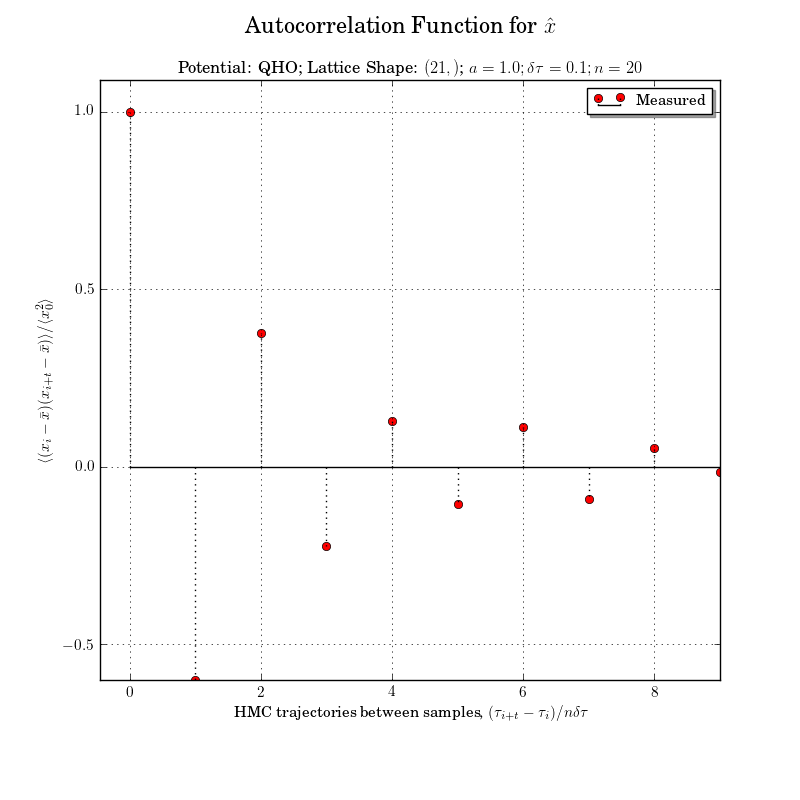
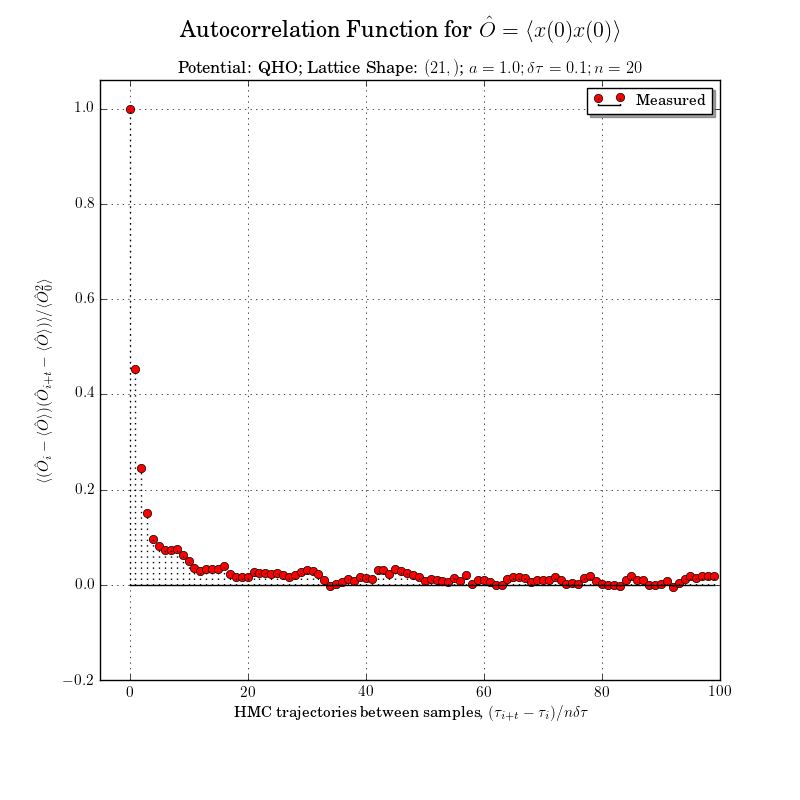
done autocorellations for arbitrary operators issue:#13

diff --git a/results/common/acorr1d_x2.py b/results/common/acorr1d_x2.py
@@ -2,20 +2,21 @@ import numpy as np
 import matplotlib.pyplot as plt
 from scipy import stats
 
-from correlations import acorr
+from correlations import acorr, corr
 from models import Basic_HMC as Model
 from utils import saveOrDisplay
 from data import store
 from plotter import Pretty_Plotter, PLOT_LOC
 
-def plot(ac_fn, subtitle, save, theory=None):
+def plot(ac_fn, subtitle, op_name, save, theory=None):
     """Plots the two-point correlation function
     
     Required Inputs
-        ac_fn :: np.array :: correlation function
-        subtitle :: string :: subtitle for the plot
-        save :: bool :: True saves the plot, False prints to the screen
-        theory :: none atm
+        ac_fn    :: np.array :: correlation function
+        subtitle :: str  :: subtitle for the plot
+        op_name  :: str  :: the name of the operator for the title
+        save     :: bool :: True saves the plot, False prints to the screen
+        theory   :: not used yet
     
     Optional Inputs
         all_lines :: bool :: if True, plots hamiltonian as well as all its components
@@ -30,13 +31,14 @@ def plot(ac_fn, subtitle, save, theory=None):
     ax =[]
     ax.append(fig.add_subplot(111))
     
-    fig.suptitle(r"Autocorrelation Function for $\hat{x}$",
+    fig.suptitle(r"Autocorrelation Function for {}".format(op_name),
         fontsize=pp.ttfont)
     
     ax[0].set_title(subtitle, fontsize=pp.ttfont-4)
     
     ax[0].set_xlabel(r'HMC trajectories between samples, $(\tau_{i+t} - \tau_{i}) / n\delta\tau$')
-    ax[0].set_ylabel(r'${\langle (x_i - \bar{x})(x_{i+t} - \bar{x}) \rangle}/{\langle x_0^2 \rangle}$')
+    ax[0].set_ylabel(r'$\mathcal{C}(t) = {\langle (\hat{O}_i - \langle\hat{O}\rangle)' \
+        + r'(\hat{O}_{i+t} - \langle\hat{O}\rangle) \rangle}/{\langle \hat{O}_0^2 \rangle}$')
     
     steps = np.linspace(0, ac_fn.size, ac_fn.size, False)    # get x values
     
@@ -88,6 +90,10 @@ def main(x0, pot, file_name, n_samples, n_burn_in, c_len=20, step_size = .5, n_s
         save :: bool :: True saves the plot, False prints to the screen
     """
     
+    separations = range(c_len)
+    opFn = lambda samples: corr.twoPoint(samples, separation=0)
+    op_name = r'$\hat{O} = \langle x(0)x(0) \rangle$'
+    
     rng = np.random.RandomState()
     model = Model(x0, pot=pot, spacing=spacing, rng=rng, step_size = step_size,
       n_steps = n_steps)
@@ -97,19 +103,15 @@ def main(x0, pot, file_name, n_samples, n_burn_in, c_len=20, step_size = .5, n_s
         pot.name, x0.shape, spacing, step_size, n_steps)
     length = model.x0.size
     
-    
     print 'Running Model: {}'.format(file_name)
     c.runModel(n_samples=n_samples, n_burn_in=n_burn_in, verbose = True)
-    
-    separations = range(c_len)
-    fn = lambda x: x # operator \hat{x}
-    
-    ac_fn = c.getAcorr(separations, fn)
+    ac_fn = c.getAcorr(separations, opFn)
     print 'Finished Running Model: {}'.format(file_name)
     
-    av_x0_sq = ac_fn[0]
-    print 'measured: <x(0)x(0)> = {}'.format(av_x0_sq)
+    av_corr = c.op_mean
+    print 'measured: <x(0)x(0)> = {}'.format(av_corr)
     store.store(ac_fn, file_name, '_acfn')
-    plot(ac_fn, subtitle, 
+    
+    plot(ac_fn, subtitle, op_name,
         save = saveOrDisplay(save, file_name))
     

diff --git a/correlations/corr.py b/correlations/corr.py
@@ -2,15 +2,34 @@
 import numpy as np
 from hmc import checks
 
-def qho_theory(spacing, mu, length, separation=0.):
-   """Theoretical prediction for the 1D 2-point correlation function
-   
-   Required Inputs
+def twoPoint(samples, separation):
+    """Delivers the UNAVERAGED two point with a given separation
+    
+    Equivalent to evaluating for each sample[i] and averaging over them
+    
+    Required Inputs
+        samples    :: n+1-dim lattice :: the 0th dim is `m` HMC lattice-samples
+        separation :: int :: the lattice spacing between the two point function
+    """
+    
+    # shift the array by the separation
+    # need the axis=1 as this is the lattice index, 0 is the sample index
+    shifted = np.roll(samples, separation, axis=1)
+    
+    # this actually works for any dim arrays as * op broadcasts
+    two_point = (shifted*samples)
+    
+    return two_point
+
+def twoPointTheoryQHO(spacing, mu, length, separation=0.):
+    """Theoretical prediction for the 1D 2-point correlation function
+    
+    Required Inputs
       spacing  :: float :: lattice spacing
       mu       :: float :: mass-coupling
       length   :: int   :: length of 1D lattice
       separation :: int :: number of sites between observables <x(0)x(separation)>
-   """
+    """
     amu = mu*spacing
     if np.abs(amu) <= 0.1: 
         r = 1. - amu + .5*amu**2
@@ -59,13 +78,11 @@ class Correlations_1d(object):
         self.result = self.runWrapper(*args, **kwargs)
         return self.result
     
-    def twoPoint(self, separation):
-        """Delivers the two point with a given separation
+    def getTwoPoint(self, separation):
+        """Delivers the two point with a given separation and runs model if necessary
         
         Once the model is run then the samples can be passed through the correlation
         function in once move utilising the underlying optimisations of numpy in full
-        
-        Equivalent to evaluating for each sample[i] and averaging over them
         
         Required Inputs
             separation :: int :: the lattice spacing between the two point function
@@ -78,14 +95,9 @@ class Correlations_1d(object):
         
         # here the sample index will be the first index
         # the remaning indices are the lattice indices
-        self.samples = np.asarray(self.samples)
+        samples = np.asarray(samples)
         
-        # shift the array by the separation
-        # need the axis=1 as this is the lattice index, 0 is the sample index
-        shifted = np.roll(self.samples, separation, axis=1)
-        
-        # this actually works for any dim arrays as * op broadcasts
-        self.two_point = (shifted*self.samples)
+        self.two_point = twoPoint(self.samples, separation)
         
         # ravel() just flattens averything into one dimension
         # rather than averaging over each lattice sample and averaging over

diff --git a/correlations/acorr.py b/correlations/acorr.py
@@ -91,7 +91,8 @@ class Autocorrelations_1d(object):
             separations  :: iterable, int :: the separations between HMC steps
             op_func     :: func :: the operator function
         
-        Notes: op_func must be optimised to only take one HMC trajectory as an input
+        
+        Notes: op_func must be optimised to only take ALL HMC trajectories as an input
         """
         
         if not isinstance(separations, list): separations = list(separations)
@@ -101,10 +102,10 @@ class Autocorrelations_1d(object):
         if not hasattr(self, 'op_samples'): 
             if not hasattr(self, 'samples'): self._getSamples() # get samples if not already
             self.samples = np.asarray(self.samples) # ensure in numpy format
-            self.op_samples = np.asarray(map(op_func, self.samples))
+            self.op_samples = op_func(self.samples)
         
         # get mean for these samples if doesn't already exist - don't waste time doing multiple
-        if not hasattr(self, 'op_mean'): self.op_mean = self.op_samples.mean()
+        if not hasattr(self, 'op_mean'): self.op_mean = self.op_samples.ravel().mean()
         if not hasattr(self, 'op_norm'):
             self.op_norm = acorr(self.op_samples, self.op_mean, separation=0)
         

diff --git a/results/common/corr1d_x2.py b/results/common/corr1d_x2.py
@@ -104,7 +104,7 @@ def main(x0, pot, file_name, n_samples, n_burn_in, c_len=5, step_size = .5, n_st
     
     print 'Running Model: {}'.format(file_name)
     c.runModel(n_samples=n_samples, n_burn_in=n_burn_in, verbose = True)
-    c_fn = np.asarray([c.twoPoint(separation=i) for i in range(c_len)])
+    c_fn = np.asarray([c.getTwoPoint(separation=i) for i in range(c_len)])
     print 'Finished Running Model: {}'.format(file_name)
     
     av_x0_sq = c_fn[0]

diff --git a/results/acorr1d_x2_qho.py b/results/acorr1d_x2_qho.py
@@ -14,7 +14,7 @@ spacing = 1.
 
 if '__main__' == __name__:
     acorr1d_x2.main(x0, pot, file_name,
-        n_samples = 100, n_burn_in = 20, spacing = spacing,
-        c_len = 10,
+        n_samples = 1000, n_burn_in = 20, spacing = spacing,
+        c_len = 100,
         step_size = 0.1, n_steps = 20,
         save = True)
